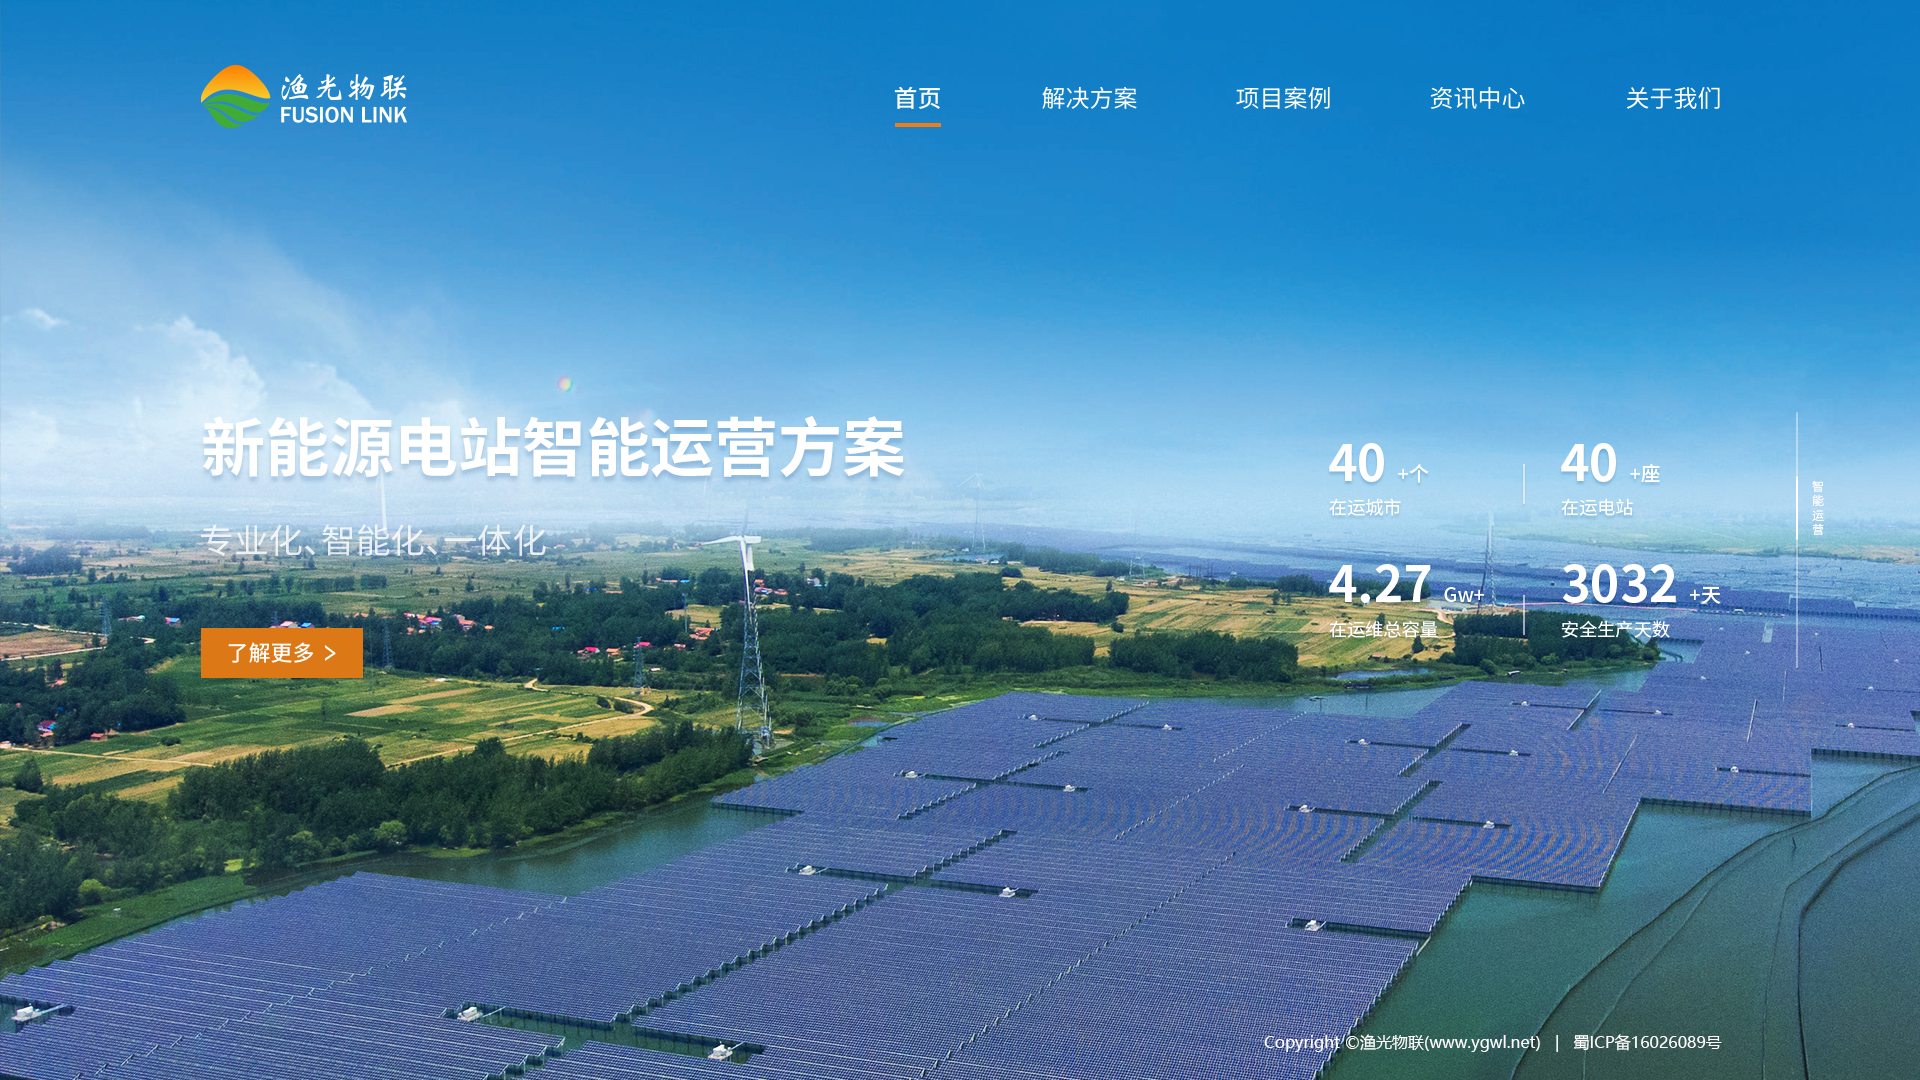
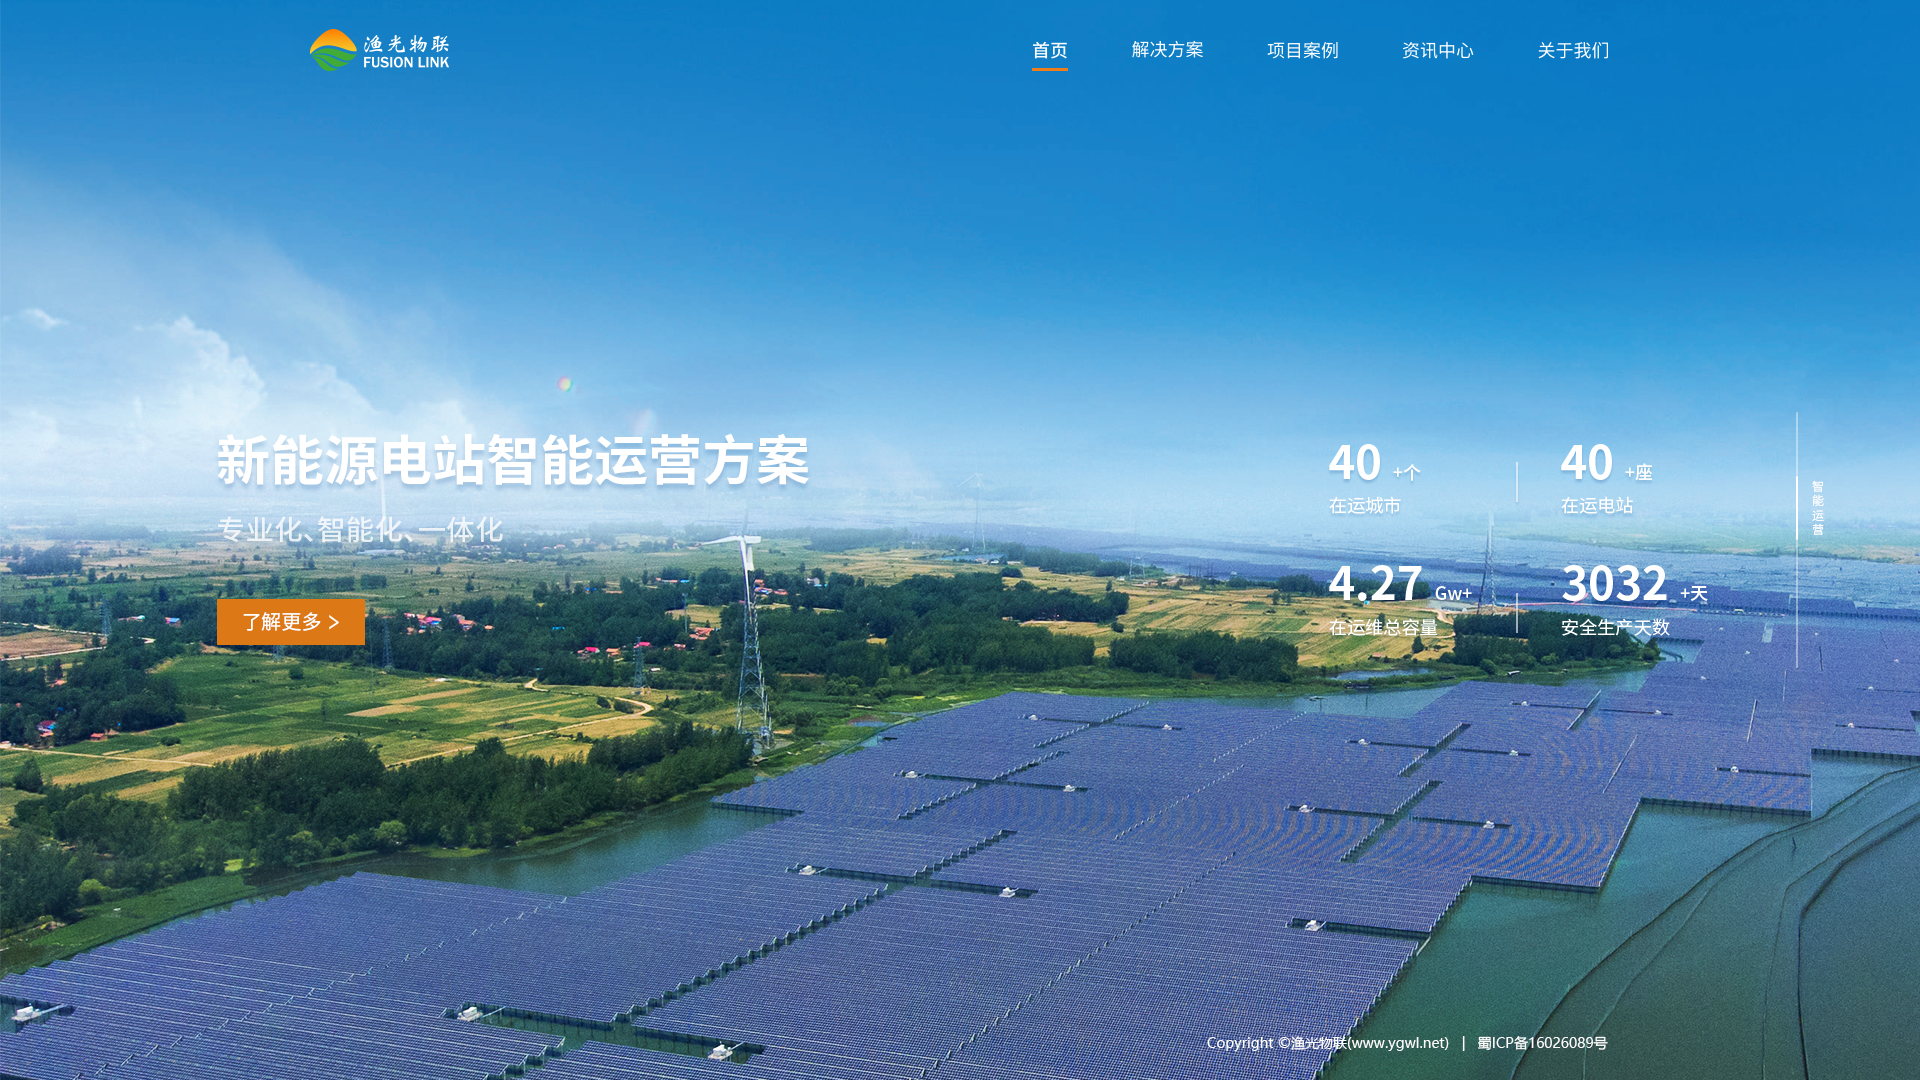
fix: 首页样式优化

diff --git a/src/App.vue b/src/App.vue
@@ -109,34 +109,167 @@ div.plans {
   }
 }
 
-@media only screen and (min-width: 1920px) and (min-height: 969px) {
+@media only screen and (min-width: 1920px) and (min-height: 1050px) and (max-height: 1080px) {
   .home .carousel-container .carousel-slide {
+
+    .indicator-component:nth-child(3),
+    .indicator-component:nth-child(4) {
+      top: calc(40vh + 108px) !important;
+    }
+
     &:nth-child(1) {
       .banner .banner-title {
-        left: 269px !important;
-        top: 350px !important;
+        top: 412px !important;
+        font-size: 50px !important;
+        left: 215px !important;
 
         .subTitle {
-          top: 85px !important;
+          top: 75px !important;
         }
       }
 
       .banner .bg-button {
-        top: calc(50vh + 70px) !important;
+        top: calc(50vh + 68px) !important;
+        left: 215px !important;
       }
     }
 
     &:not(:first-child) {
       .banner .banner-title {
-        top: 360px !important;
+        font-size: 50px !important;
+        top: 425px !important;
+        left: 220px !important;
 
         .subTitle {
-          top: 102px !important;
+          top: 86px !important;
+          font-size: 26px !important;
+          left: -222px !important;
         }
       }
 
       .banner .bg-button {
-        top: calc(50vh + 80px) !important;
+        top: calc(50vh + 60px) !important;
+        left: 217px !important;
+      }
+    }
+  }
+}
+
+@media only screen and (min-width: 1920px) and (min-height: 1000px) and (max-height: 1049px) {
+  .home .carousel-container .carousel-slide {
+    &:nth-child(1) {
+      .banner .banner-title {
+        top: 378px !important;
+        font-size: 50px !important;
+        left: 215px !important;
+
+        .subTitle {
+          top: 72px !important;
+        }
+      }
+
+      .banner .bg-button {
+        top: calc(50vh + 66px) !important;
+        left: 215px !important;
+      }
+    }
+
+    &:not(:first-child) {
+      .banner .banner-title {
+        font-size: 50px !important;
+        top: 395px !important;
+        left: 220px !important;
+
+        .subTitle {
+          top: 75px !important;
+          font-size: 26px !important;
+          left: -228px !important;
+        }
+      }
+
+      .banner .bg-button {
+        top: calc(50vh + 55px) !important;
+        left: 220px !important;
+      }
+    }
+  }
+}
+
+@media only screen and (min-width: 1920px) and (min-height: 969px) and (max-height: 999px) {
+  .home .carousel-container .carousel-slide {
+    &:nth-child(1) {
+      .banner .banner-title {
+        left: 215px !important;
+        top: 365px !important;
+        font-size: 50px !important;
+
+        .subTitle {
+          top: 72px !important;
+        }
+      }
+
+      .banner .bg-button {
+        top: calc(50vh + 66px) !important;
+        left: 215px !important;
+      }
+    }
+
+    &:not(:first-child) {
+      .banner .banner-title {
+        font-size: 50px !important;
+        top: 380px !important;
+        left: 220px !important;
+
+        .subTitle {
+          top: 75px !important;
+          font-size: 26px !important;
+          left: -228px !important;
+        }
+      }
+
+      .banner .bg-button {
+        top: calc(50vh + 55px) !important;
+        left: 220px !important;
+      }
+    }
+  }
+}
+
+@media only screen and (min-width: 1920px) and (min-height: 919px) and (max-height: 968px) {
+  .home .carousel-container .carousel-slide {
+    &:nth-child(1) {
+      .banner .banner-title {
+        left: 215px !important;
+        top: 345px !important;
+        font-size: 50px !important;
+
+        .subTitle {
+          top: 65px !important;
+        }
+      }
+
+      .banner .bg-button {
+        top: calc(50vh + 60px) !important;
+        left: 220px !important;
+      }
+    }
+
+    &:not(:first-child) {
+      .banner .banner-title {
+        font-size: 50px !important;
+        top: 360px !important;
+        left: 210px !important;
+
+        .subTitle {
+          top: 75px !important;
+          font-size: 26px !important;
+          left: -210px !important;
+        }
+      }
+
+      .banner .bg-button {
+        top: calc(50vh + 51px) !important;
+        left: 220px !important;
       }
     }
   }

diff --git a/src/views/Home/Home.vue b/src/views/Home/Home.vue
@@ -37,14 +37,10 @@
             </div>
           </div>
           <div class="quota">
-            <Indicator :num="40" :unit="'个'" :descript="'在运城市'"
-              style="top: calc(40vh - 12px); right: calc(20vw + 35px);"></Indicator>
-            <Indicator :num="40" :unit="'座'" :descript="'在运电站'"
-              style="top: calc(40vh - 12px); right: calc(10vw - 5px);"></Indicator>
-            <Indicator :num="4.27" :unit="'Gw'" :descript="'在运维总容量'"
-              style="top: calc(40vh + 98px); right: calc(20vw + 15px);"></Indicator>
-            <Indicator :num="3032" :unit="'天'" :descript="'安全生产天数'"
-              style="top: calc(40vh + 98px); right: calc(10vw - 30px);"></Indicator>
+            <Indicator :num="40" :unit="'个'" :descript="'在运城市'" ></Indicator>
+            <Indicator :num="40" :unit="'座'" :descript="'在运电站'" ></Indicator>
+            <Indicator :num="4.27" :unit="'Gw'" :descript="'在运维总容量'" ></Indicator>
+            <Indicator :num="3032" :unit="'天'" :descript="'安全生产天数'" ></Indicator>
             <div class="segment"></div>
             <div class="segment" style="top: calc(50vh + 50px)"></div>
           </div>
@@ -165,6 +161,27 @@ onMounted(() => {
     .title {
       font-size: @font-size-larger;
     }
+
+    &.banner {
+      :deep(.indicator-component) {
+        &:nth-child(1) {
+          top: calc(40vh - 12px); 
+          right: calc(20vw + 72px);
+        }
+        &:nth-child(2) {
+          top: calc(40vh - 12px); 
+          right: calc(10vw + 35px);
+        }
+        &:nth-child(3) {
+          top: calc(40vh + 98px); 
+          right: calc(20vw + 50px);
+        }
+        &:nth-child(4) {
+          top: calc(40vh + 98px); 
+          right: calc(10vw + 7px);
+        }
+      }
+    }
   }
 
   :deep(.carousel-slide.active) {
@@ -243,8 +260,8 @@ onMounted(() => {
   .bg-button {
     position: absolute;
     background: #EF7D1B;
-    width: 145px;
-    height: 44px;
+    width: 147px;
+    height: 45px;
     left: 215px;
     top: calc(50vh + 72px);
     cursor: pointer;
@@ -274,7 +291,7 @@ onMounted(() => {
     width: 2px;
     height: 36px;
     top: calc(40vh + 28px);
-    right: calc(20vw - 5px);
+    right: calc(20vw + 18px);
     background-color: rgba(255, 255, 255, 0.4);
     transition: background-color 0.3s, width 0.3s;
   }
@@ -346,8 +363,8 @@ onMounted(() => {
 }
 
 .home .carousel-container .banner .bg-button {
-  width: 161px;
-  height: 49px;
+  width: 147px;
+  height: 45px;
   left: 264px;
   top: calc(50vh + 80px);
 
@@ -355,6 +372,7 @@ onMounted(() => {
     margin: 10px 22px;
     font-size: 20px;
     font-weight: 600;
+    line-height: 25px;
   }
 }
 
@@ -370,8 +388,8 @@ onMounted(() => {
       }
 
       .banner .bg-button {
-        width: 161px;
-        height: 49px;
+        width: 147px;
+        height: 45px;
         left: 200px;
         top: calc(50vh + 90px);
       }

diff --git a/src/views/ProjectCases/ProjectCases.vue b/src/views/ProjectCases/ProjectCases.vue
@@ -247,7 +247,7 @@ onBeforeUnmount(() => {
 
   .case-item-box {
     width: 306px;
-    height: 503px;
+    height: 525px;
     background: #ffffff;
     box-shadow: -1px 7px 13px 0px rgba(24, 24, 24, 0.11);
     cursor: pointer;
